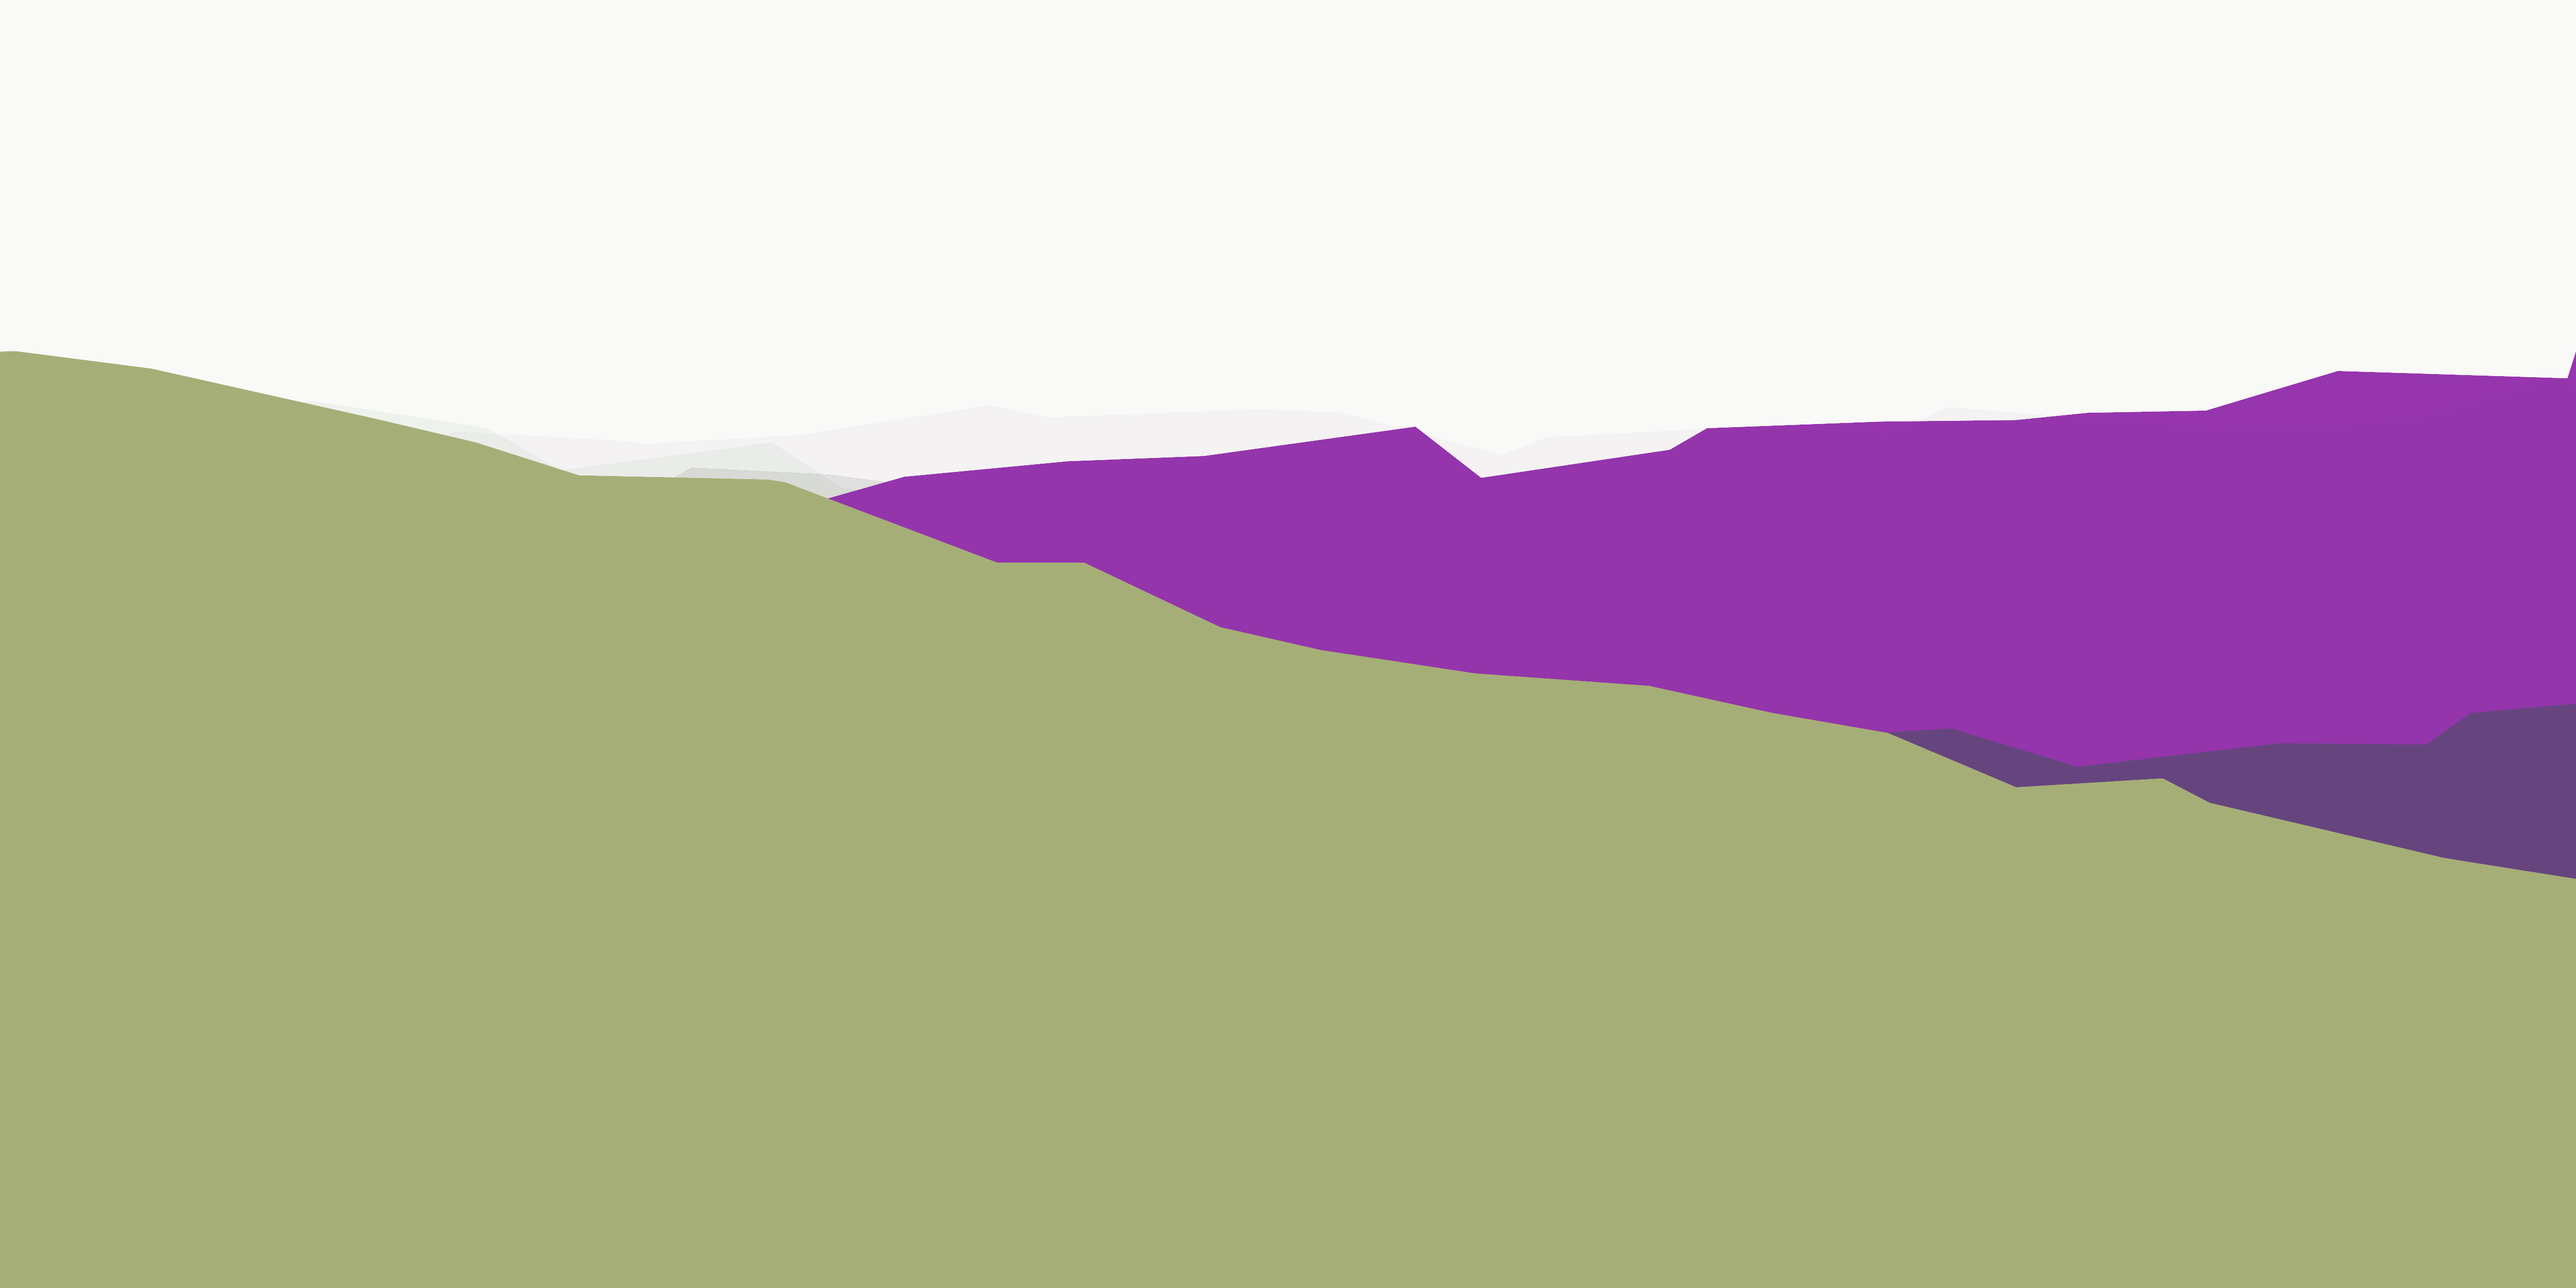
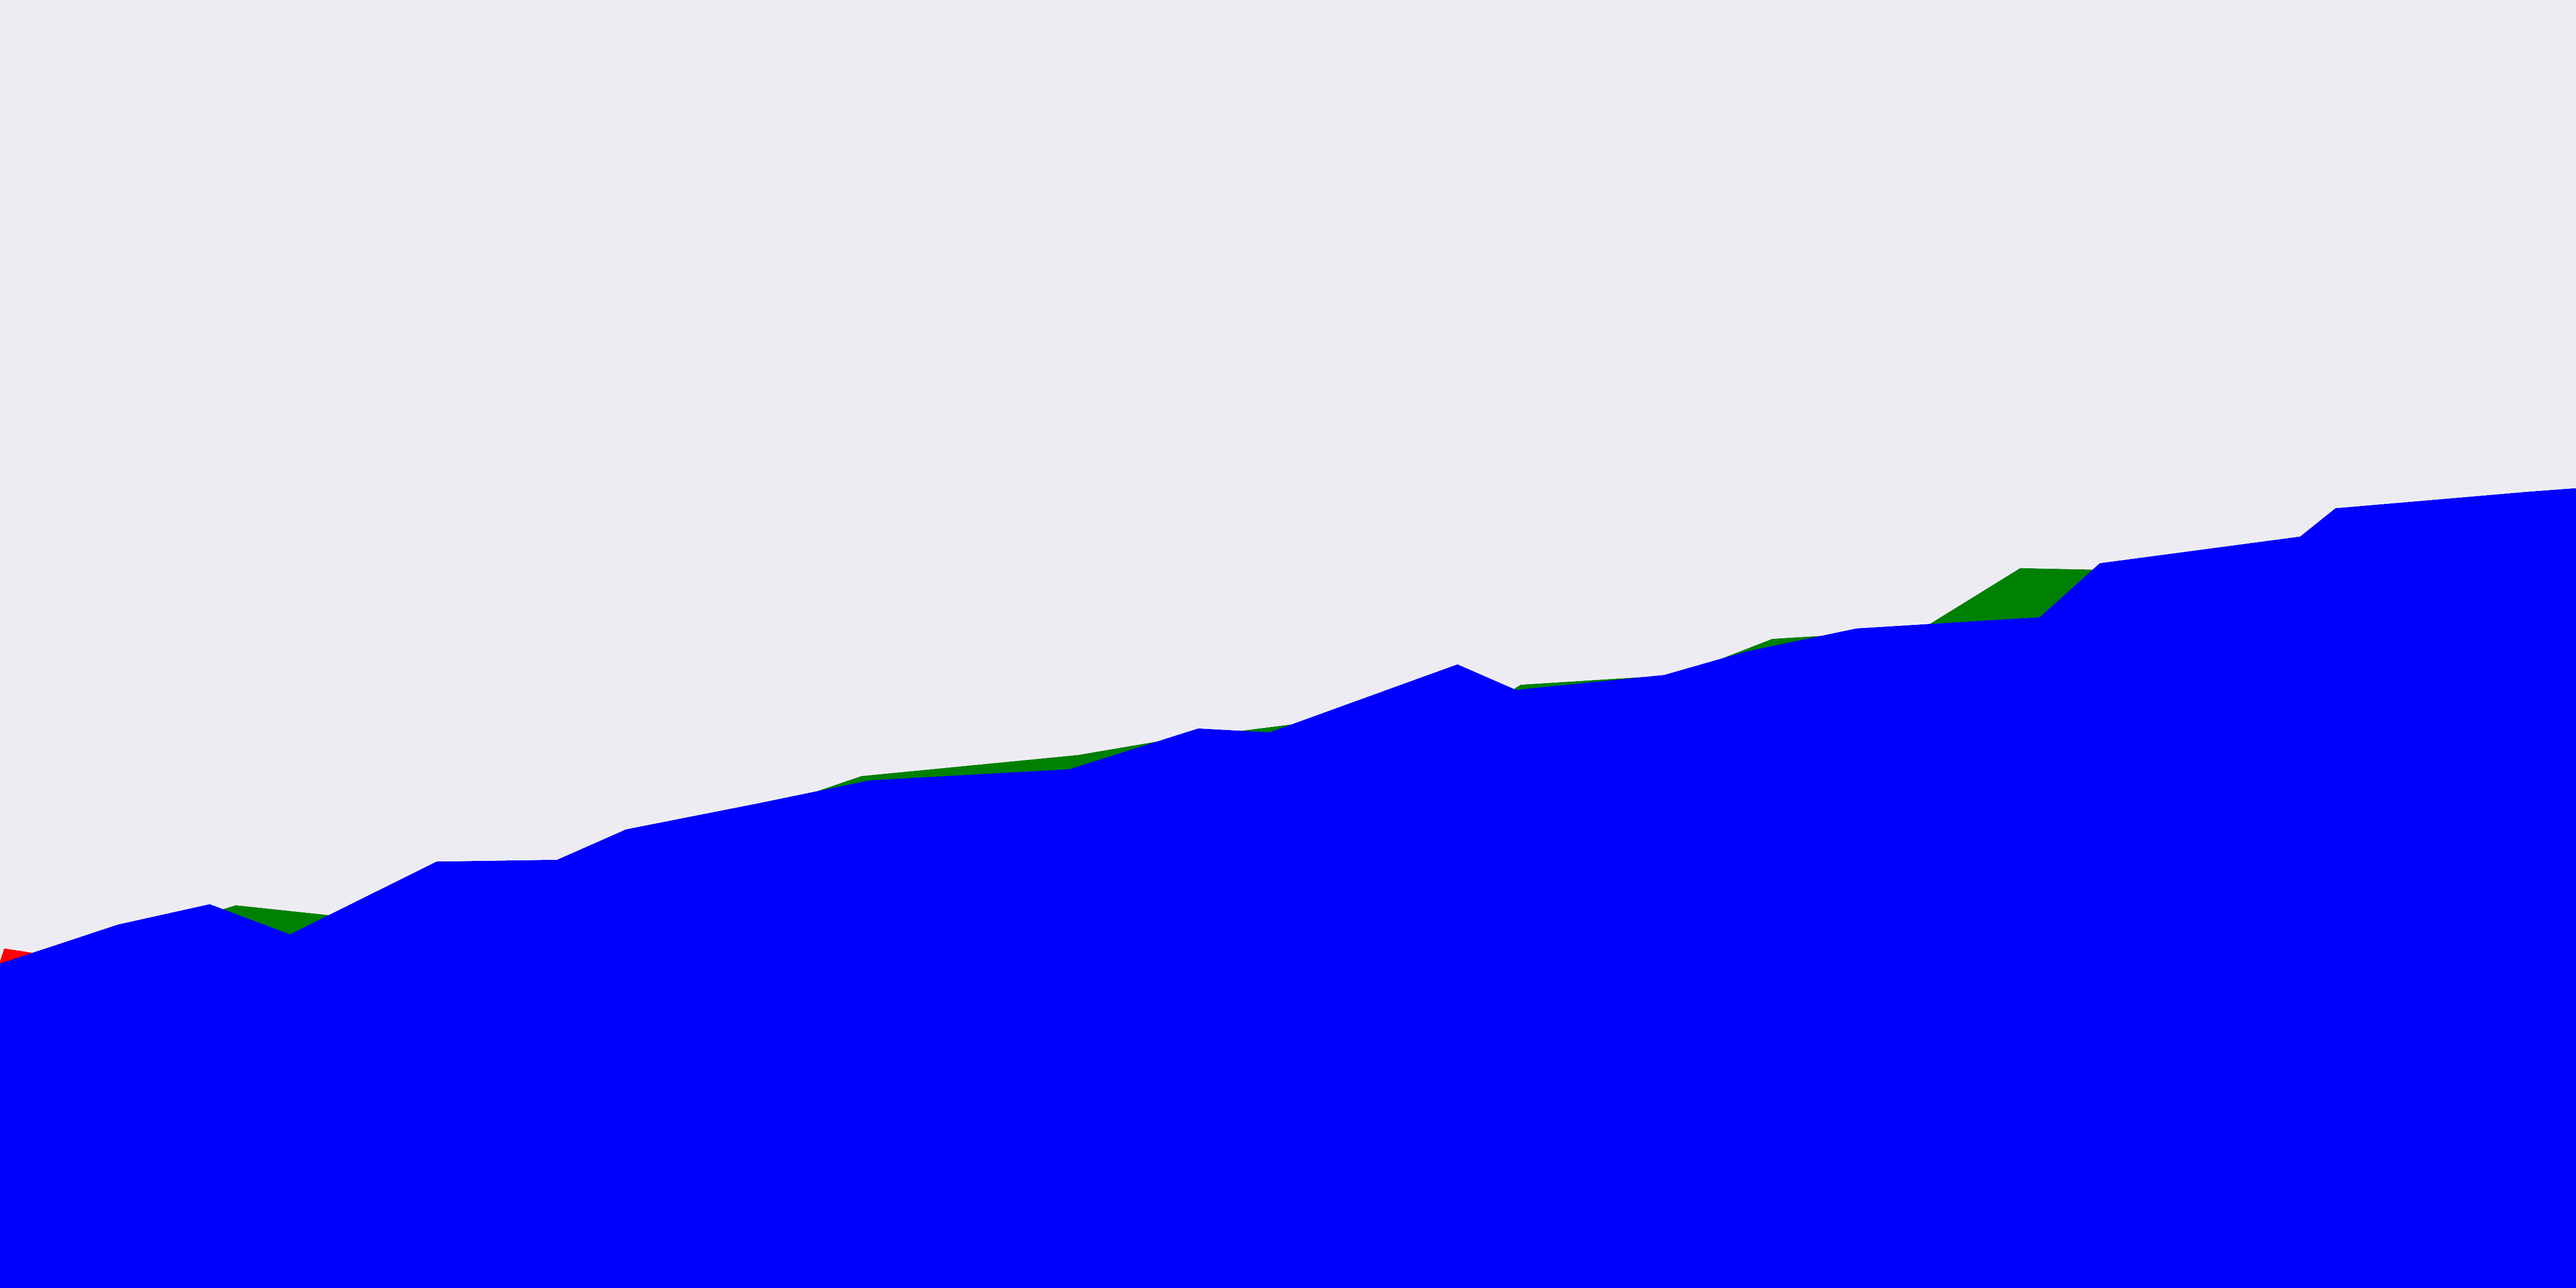
looks like somehow the same line is being used.

diff --git a/bridgescape.rb b/bridgescape.rb
@@ -138,8 +138,8 @@ end
 
 
 
-def draw_mountain(color, gc)
-	mountain_points = mt.create_mountain_points
+def draw_mountain(color, gc, mount_inst)
+	mountain_points = mount_inst.create_mountain_points
 	gc.stroke(color).stroke_width(0)
 	gc.fill(color)
 	gc.polyline(*mountain_points)
@@ -190,12 +190,6 @@ end
 
 
 
-colors = generate_complimentary_colors(n_mountains, generate_color)
-
-rgb_color_list = rgb_format_color_array(colors)
-rgba_color_list = rgba_format_color_array(colors)
-
-master_color_list = rgba_color_list.zip(rgb_color_list).flatten!
 
 
 
@@ -213,35 +207,53 @@ master_color_list = rgba_color_list.zip(rgb_color_list).flatten!
 require 'rmagick'
 
 imgl = Magick::ImageList.new
-imgl.new_image(canvas_width, canvas_height)
+imgl.new_image(CANVAS_WIDTH, CANVAS_HEIGHT)
 
 
 gc = Magick::Draw.new
 
 
+
+
+
+n_mountains = 3
+
+test_colors = ['red','green','blue','yellow','white','black','red','green','blue','yellow']
+
+colors = generate_complimentary_colors(n_mountains, generate_color)
+
+rgb_color_list = rgb_format_color_array(colors)
+rgba_color_list = rgba_format_color_array(colors)
+
+master_color_list = rgba_color_list.zip(rgb_color_list).flatten!
+
+
+
 gc.fill(rgba_color_list[0])
-gc.rectangle(0,0,canvas_width,canvas_height)
+gc.rectangle(0,0,CANVAS_WIDTH,CANVAS_HEIGHT)
 
 
-n_mountains = 4
+
 mt = Mountain.new
 
 n_mountains.times do |i|
 	puts "on: #{i} iteration"
-	if mt.lines_array[i - 1] == nil
+	if mt.lines_array[0] == nil
 		mt.create_rand_line(i)
+		p mt.lines_array
 		puts "made #{i} line"
 	else
 		counter = 0
 		while !mt.good_line
 			mt.create_rand_line(i)
+			p mt.lines_array
 			mt.check_line(i)
 			puts "attempt: #{counter}"
 			counter += 1
 		end
 	end
 	puts "-" * 50
-	draw_mountain(master_color_list[i], gc)
+	draw_mountain(test_colors[i], gc, mt)
 	mt.point_list = []
 end
 
